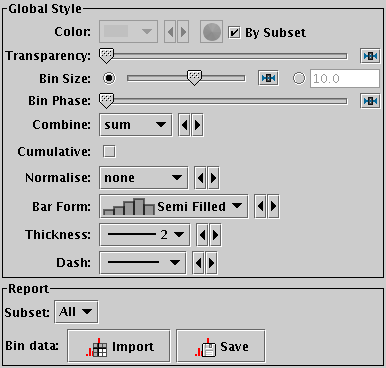
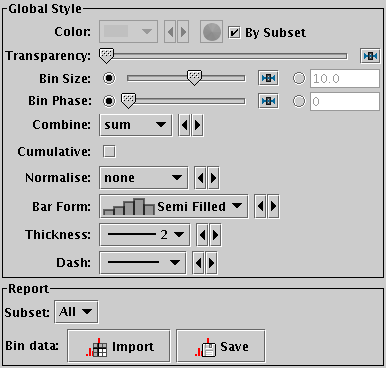
topcat: add text entry option for grid/histogram phase keys
The bin phase configuration keys for the GridPlotter and HistogramPlotter
now have the option for using text entry as an alternative to a slider
for configuring the phase bin phase values.

Changed region(s): [[0.6218, 0.2391, 0.9948, 0.2989], [0.2487, 0.2391, 0.3731, 0.2989]]

diff --git a/ttools/src/main/uk/ac/starlink/ttools/plot2/layer/GridPlotter.java b/ttools/src/main/uk/ac/starlink/ttools/plot2/layer/GridPlotter.java
@@ -43,6 +43,7 @@ import uk.ac.starlink.ttools.plot2.config.ConfigMeta;
 import uk.ac.starlink.ttools.plot2.config.DoubleConfigKey;
 import uk.ac.starlink.ttools.plot2.config.OptionConfigKey;
 import uk.ac.starlink.ttools.plot2.config.RampKeySet;
+import uk.ac.starlink.ttools.plot2.config.SliderSpecifier;
 import uk.ac.starlink.ttools.plot2.config.StyleKeys;
 import uk.ac.starlink.ttools.plot2.data.Coord;
 import uk.ac.starlink.ttools.plot2.data.CoordGroup;
@@ -298,7 +299,9 @@ public class GridPlotter implements Plotter<GridPlotter.GridStyle> {
             "that value multiplied by the bin width.",
             "</p>",
         } );
-        return DoubleConfigKey.createSliderKey( meta, 0, 0, 1, false );
+        return DoubleConfigKey
+              .createSliderKey( meta, 0, 0, 1, false, false,
+                                SliderSpecifier.TextOption.ENTER_ECHO );
     }
 
     /**

diff --git a/ttools/src/main/uk/ac/starlink/ttools/plot2/layer/HistogramPlotter.java b/ttools/src/main/uk/ac/starlink/ttools/plot2/layer/HistogramPlotter.java
@@ -40,6 +40,7 @@ import uk.ac.starlink.ttools.plot2.config.ConfigMeta;
 import uk.ac.starlink.ttools.plot2.config.DoubleConfigKey;
 import uk.ac.starlink.ttools.plot2.config.OptionConfigKey;
 import uk.ac.starlink.ttools.plot2.config.PerUnitConfigKey;
+import uk.ac.starlink.ttools.plot2.config.SliderSpecifier;
 import uk.ac.starlink.ttools.plot2.config.StyleKeys;
 import uk.ac.starlink.ttools.plot2.data.Coord;
 import uk.ac.starlink.ttools.plot2.data.CoordGroup;
@@ -136,7 +137,7 @@ public class HistogramPlotter
                 "that value multiplied by the bin width.",
                 "</p>",
             } )
-        , 0, 0, 1, false );
+        , 0, 0, 1, false, false, SliderSpecifier.TextOption.ENTER_ECHO );
 
     /**
      * Constructor.
